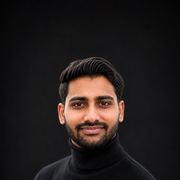
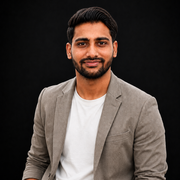
updated image and fixed links.

diff --git a/src/data/content.ts b/src/data/content.ts
@@ -35,8 +35,8 @@ export const focusAreas = [
 
 export const socials = [
   { label: 'GitHub', url: 'https://github.com/shubhammali929', key: 'github' },
-  { label: 'LinkedIn', url: 'https://www.linkedin.com/in/shubhammali1511/', key: 'linkedin' },
-  { label: 'Email', url: 'mailto:shubhammali929@gmail.com', key: 'email' },
+  { label: 'LinkedIn', url: 'https://www.linkedin.com/in/shubhammalidev/', key: 'linkedin' },
+  { label: 'Email', url: 'mailto:dev.shubham.mali@gmail.com', key: 'email' },
   { label: 'Buy me a coffee', url: 'https://buymeacoffee.com/shubhammali', key: 'coffee' },
 ] as const
 
